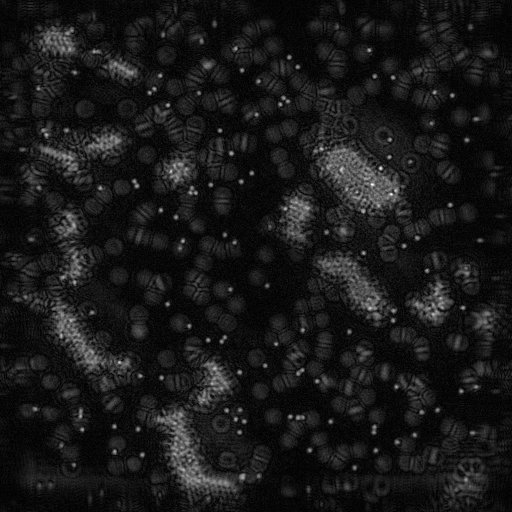
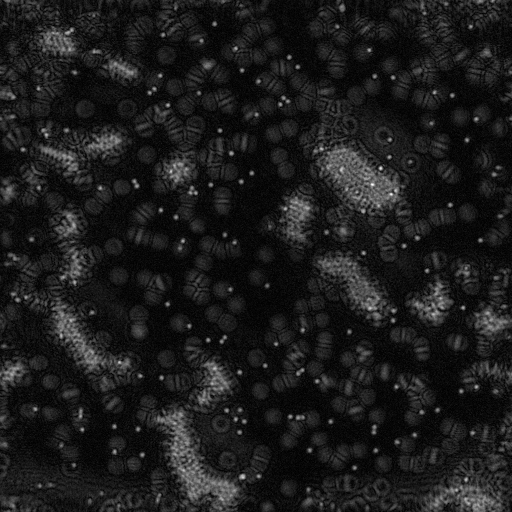
test

diff --git a/volHoloRecons.m b/volHoloRecons.m
@@ -26,14 +26,14 @@ indir = './data/';  % Hologram data
 
 % Simulations: random, geo, overlap, cirhelix, conhelix, SNUE
 % Experiments: dandelion, sh, beads, res, hair
-obj_name = 'hair';
+obj_name = 'beads';
 holo_type = 'complex';  % complex; inline; offline;
 
 % Output setting
 isDebug = 1;
 
 % Deconvolution setting
-iter_num = 5000;
+iter_num = 1000;
 regu_type = 'TV';  % 'TV', 'L1'
 deconv_type = 'TwIST';  % 'TwIST','GPSR', TVAL3, SALSA, NESTA, TVPD
 

diff --git a/data/beads_param.m b/data/beads_param.m
@@ -41,12 +41,13 @@ pps = sensor_size/Nx;
 % z_scope = offsetZ - ((1:Nz)- round(Nz/2))*deltaZ
 
 z = [85 125]*1e-6;
+% z = [84 85 86 124 125 126 127 128]*1e-6;
 Nz = length(z);
 
 tau = 0.1;   % This effects, need further investigation
 tau_psi = 0.2;
 
 %% Resize 
-[holo, pps] = holoResize(holo, pps, 512, 20);
+[holo, pps] = holoResize(holo, pps, 512, 0);
 [Ny, Nx] = size(holo);
 

diff --git a/data/hair_param.m b/data/hair_param.m
@@ -27,7 +27,7 @@ tau_psi = 0.2;
 %% ========================================== Resize =================================================
 load('hair.mat');
 
-[holo, pps] = holoResize(holo, pps, 512, 20);
+[holo, pps] = holoResize(holo, pps, 1024, 0);
 [Ny, Nx] = size(holo);
 
 

diff --git a/data/sh_param.m b/data/sh_param.m
@@ -34,5 +34,5 @@ tau_psi = 0.15;
 
 %% Resize 
 load('sh.mat');
-[holo, pps] = holoResize(holo, pps, 256, 10);
+[holo, pps] = holoResize(holo, pps, 256, 0);
 [Ny, Nx] = size(holo);
